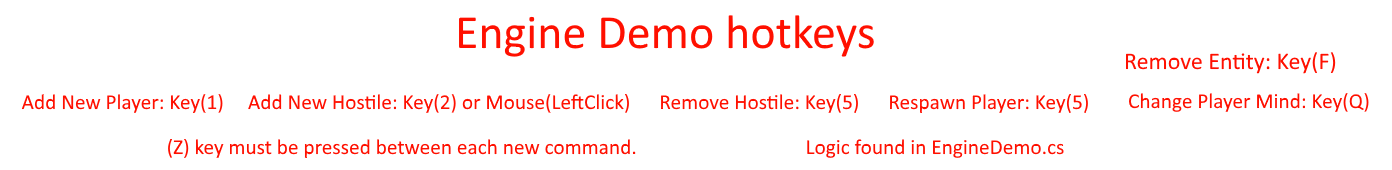
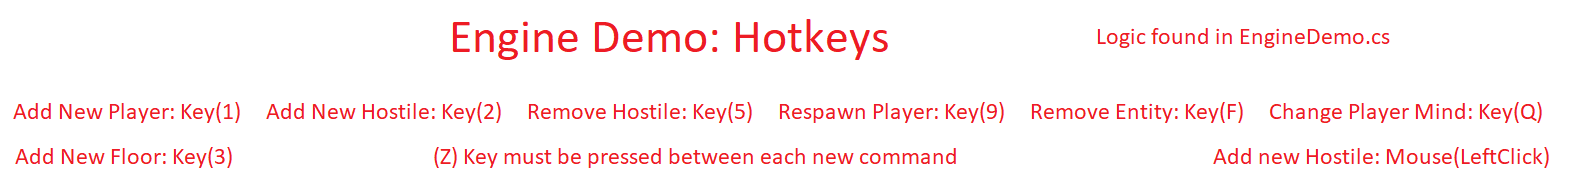
Added new header

diff --git a/COMP2351-Game_Engine/COMP2351-Game_Engine/Component/Engine/Demo/EngineDemo.cs b/COMP2351-Game_Engine/COMP2351-Game_Engine/Component/Engine/Demo/EngineDemo.cs
@@ -67,7 +67,7 @@ namespace COMP2351_Game_Engine
                             // Request player entity from entity manager
                             IEntity entity = entityManager.RequestInstance<Player>("Player", textures[0]);
                             // Scene manager places entity on the scene
-                            sceneManager.Spawn(entity, 0, 0);
+                            sceneManager.Spawn(entity, 0, 300);
                         }
                         disableSpawn = true;
                         break;

diff --git a/COMP2351-Game_Engine/COMP2351-Game_Engine/Game1.cs b/COMP2351-Game_Engine/COMP2351-Game_Engine/Game1.cs
@@ -83,7 +83,7 @@ namespace COMP2351_Game_Engine
             inputManager.AddListener(((IKeyboardListener)engineDemo).OnNewKeyboardInput);
             inputManager.AddListener(((IMouseListener)engineDemo).OnNewMouseInput);
             // set headerLoaction
-            headerLocation = new Vector2 (80,0);
+            headerLocation = new Vector2 (10,0);
             // initialise
             base.Initialize();
         }
